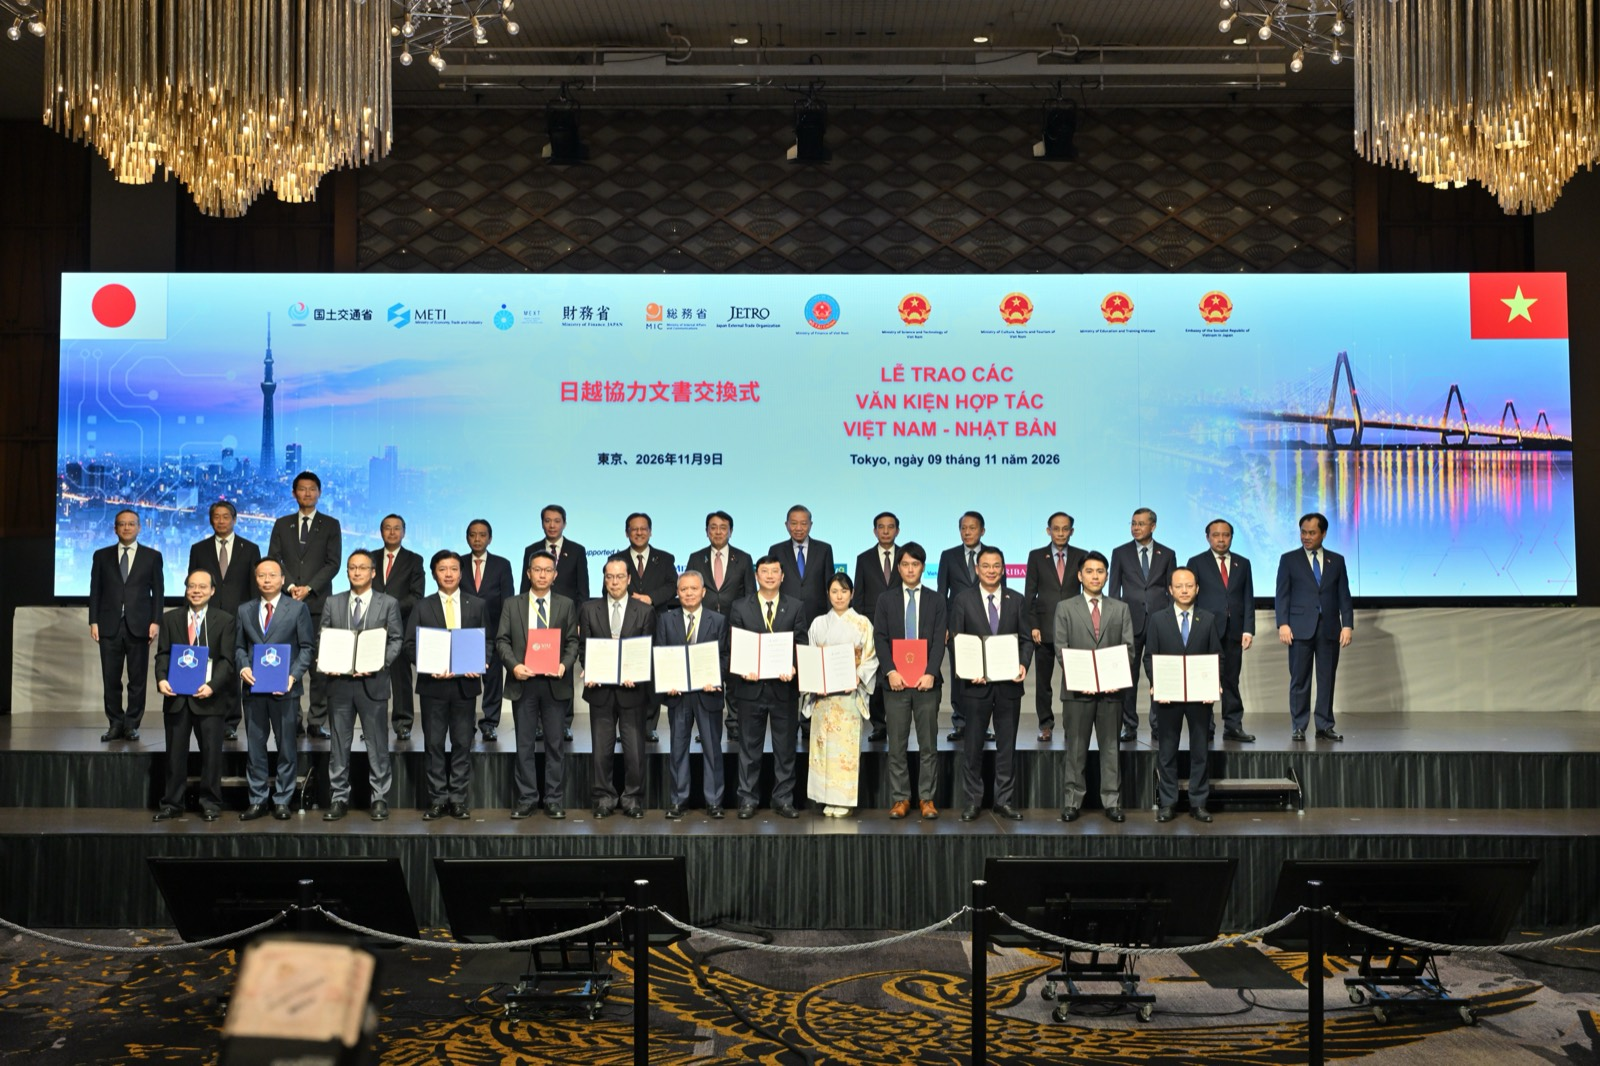
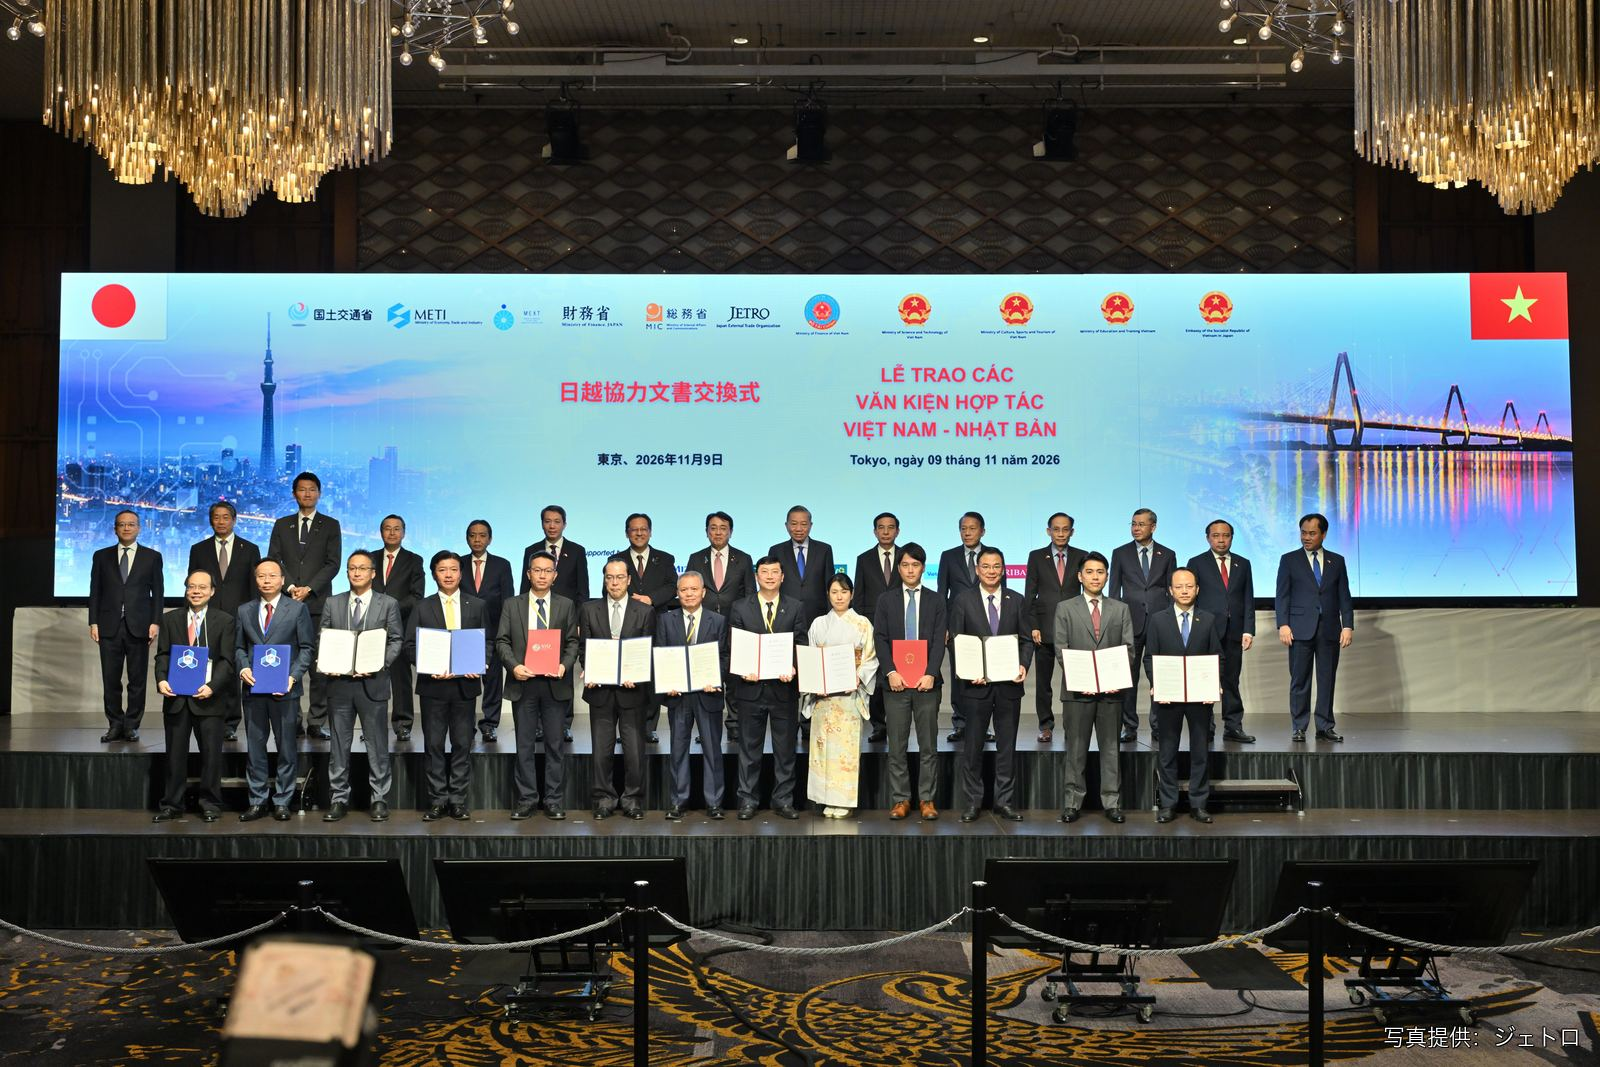
クレジットを画像に焼き込み（SNSでも同じ画像を使うため）
- vnu_mou.jpg の右下に「写真提供：ジェトロ」を描画
- HTML/CSS 側のクレジット表示は二重になるため削除
- 代替テキストにクレジットを含める
- CSS キャッシュバスターを v=122 に更新

Changed region(s): [[0.8438, 0.9597, 1.0, 0.9906]]

diff --git a/news/2026-11-vnu-mou/index.html b/news/2026-11-vnu-mou/index.html
@@ -14,7 +14,7 @@
   <link rel="preconnect" href="https://fonts.googleapis.com">
   <link rel="preconnect" href="https://fonts.gstatic.com" crossorigin>
   <link href="https://fonts.googleapis.com/css2?family=Inter:wght@400;500;600&family=Noto+Sans+JP:wght@400;500;700&display=swap" rel="stylesheet">
-  <link rel="stylesheet" href="../../css/style.css?v=121">
+  <link rel="stylesheet" href="../../css/style.css?v=122">
 </head>
 <body>
 
@@ -87,12 +87,10 @@
            data-jp="また、11月9日に開催された「日本・ベトナム 経済・科学技術官民連携フォーラム」の場において、本MOUの締結についてお披露目いたしました。"
            data-en="The signing was also announced at the Japan&ndash;Vietnam public-private forum on economic, science and technology cooperation, held on November 9.">また、11月9日に開催された「日本・ベトナム 経済・科学技術官民連携フォーラム」の場において、本MOUの締結についてお披露目いたしました。</p>
 
-        <figure class="news-detail__photo" data-reveal style="--i:5">
+        <div class="news-detail__photo" data-reveal style="--i:5">
           <img src="../../assets/images/vnu_mou.jpg"
-               alt="式典での集合写真">
-          <figcaption class="news-detail__credit"
-                      data-jp="写真提供：ジェトロ" data-en="Photo: JETRO">写真提供：ジェトロ</figcaption>
-        </figure>
+               alt="式典での集合写真（写真提供：ジェトロ）">
+        </div>
 
         <div class="news-detail__back-wrap">
           <a href="../../news.html" class="news-detail__back news-detail__back--bottom"

diff --git a/css/style.css b/css/style.css
@@ -2547,25 +2547,6 @@ a.news-card-full:hover {
   display: block;
 }
 
-/* 写真のクレジット（出典表示）— 写真の右下に重ねる */
-.news-detail__photo { position: relative; }
-
-.news-detail__credit {
-  position: absolute;
-  right: 10px;
-  bottom: 8px;
-  font-size: 11px;
-  line-height: 1.5;
-  letter-spacing: 0.02em;
-  color: rgba(255, 255, 255, 0.92);
-  text-shadow: 0 1px 3px rgba(0, 0, 0, 0.6);
-  pointer-events: none;
-}
-
-@media (max-width: 768px) {
-  .news-detail__credit { right: 8px; bottom: 6px; font-size: 10px; }
-}
-
 /* 外部リンクのhrefが空の場合は非表示 */
 .news-detail__link[href=""] {
   display: none;

diff --git a/team.html b/team.html
@@ -31,7 +31,7 @@
   <link rel="preconnect" href="https://fonts.googleapis.com">
   <link rel="preconnect" href="https://fonts.gstatic.com" crossorigin>
   <link href="https://fonts.googleapis.com/css2?family=Inter:wght@400;500;600&family=Noto+Sans+JP:wght@400;500;700&display=swap" rel="stylesheet">
-  <link rel="stylesheet" href="css/style.css?v=121">
+  <link rel="stylesheet" href="css/style.css?v=122">
   <style>
     .team-founders { display: grid; grid-template-columns: 1fr 1fr; gap: 48px; margin-top: 48px; }
     .founder-card { border: var(--border); border-radius: var(--radius-card); overflow: hidden; }

diff --git a/technology.html b/technology.html
@@ -32,7 +32,7 @@
   <link rel="preconnect" href="https://fonts.googleapis.com">
   <link rel="preconnect" href="https://fonts.gstatic.com" crossorigin>
   <link href="https://fonts.googleapis.com/css2?family=Inter:wght@400;500;600&family=Noto+Sans+JP:wght@400;500;700&display=swap" rel="stylesheet">
-  <link rel="stylesheet" href="css/style.css?v=121">
+  <link rel="stylesheet" href="css/style.css?v=122">
 
   <!-- 構造化データ: 技術解説（検索対策・画面非表示） -->
   <script type="application/ld+json">

diff --git a/index.html b/index.html
@@ -35,7 +35,7 @@
   <link rel="preconnect" href="https://fonts.googleapis.com">
   <link rel="preconnect" href="https://fonts.gstatic.com" crossorigin>
   <link href="https://fonts.googleapis.com/css2?family=Inter:wght@400;500;600&family=Noto+Sans+JP:wght@400;500;700&display=swap" rel="stylesheet">
-  <link rel="stylesheet" href="css/style.css?v=121">
+  <link rel="stylesheet" href="css/style.css?v=122">
 
   <!-- 構造化データ: Googleの検索結果リッチ表示用 -->
   <script type="application/ld+json">

diff --git a/cookie.html b/cookie.html
@@ -16,7 +16,7 @@
   <link rel="preconnect" href="https://fonts.googleapis.com">
   <link rel="preconnect" href="https://fonts.gstatic.com" crossorigin>
   <link href="https://fonts.googleapis.com/css2?family=Inter:wght@400;500;600&family=Noto+Sans+JP:wght@400;500;700&display=swap" rel="stylesheet">
-  <link rel="stylesheet" href="css/style.css?v=121">
+  <link rel="stylesheet" href="css/style.css?v=122">
   <style>
     .privacy-body {
       max-width: 760px;

diff --git a/privacy.html b/privacy.html
@@ -16,7 +16,7 @@
   <link rel="preconnect" href="https://fonts.googleapis.com">
   <link rel="preconnect" href="https://fonts.gstatic.com" crossorigin>
   <link href="https://fonts.googleapis.com/css2?family=Inter:wght@400;500;600&family=Noto+Sans+JP:wght@400;500;700&display=swap" rel="stylesheet">
-  <link rel="stylesheet" href="css/style.css?v=121">
+  <link rel="stylesheet" href="css/style.css?v=122">
   <style>
     .privacy-body {
       max-width: 760px;

diff --git a/news/2024-02-kaga-partnership/index.html b/news/2024-02-kaga-partnership/index.html
@@ -14,7 +14,7 @@
   <link rel="preconnect" href="https://fonts.googleapis.com">
   <link rel="preconnect" href="https://fonts.gstatic.com" crossorigin>
   <link href="https://fonts.googleapis.com/css2?family=Inter:wght@400;500;600&family=Noto+Sans+JP:wght@400;500;700&display=swap" rel="stylesheet">
-  <link rel="stylesheet" href="../../css/style.css?v=121">
+  <link rel="stylesheet" href="../../css/style.css?v=122">
 </head>
 <body>
 

diff --git a/news/2024-05-nedo/index.html b/news/2024-05-nedo/index.html
@@ -14,7 +14,7 @@
   <link rel="preconnect" href="https://fonts.googleapis.com">
   <link rel="preconnect" href="https://fonts.gstatic.com" crossorigin>
   <link href="https://fonts.googleapis.com/css2?family=Inter:wght@400;500;600&family=Noto+Sans+JP:wght@400;500;700&display=swap" rel="stylesheet">
-  <link rel="stylesheet" href="../../css/style.css?v=121">
+  <link rel="stylesheet" href="../../css/style.css?v=122">
 </head>
 <body>
 

diff --git a/news/2024-10-jaxa-startup/index.html b/news/2024-10-jaxa-startup/index.html
@@ -14,7 +14,7 @@
   <link rel="preconnect" href="https://fonts.googleapis.com">
   <link rel="preconnect" href="https://fonts.gstatic.com" crossorigin>
   <link href="https://fonts.googleapis.com/css2?family=Inter:wght@400;500;600&family=Noto+Sans+JP:wght@400;500;700&display=swap" rel="stylesheet">
-  <link rel="stylesheet" href="../../css/style.css?v=121">
+  <link rel="stylesheet" href="../../css/style.css?v=122">
 </head>
 <body>
 

diff --git a/news/2024-12-kaga-report/index.html b/news/2024-12-kaga-report/index.html
@@ -14,7 +14,7 @@
   <link rel="preconnect" href="https://fonts.googleapis.com">
   <link rel="preconnect" href="https://fonts.gstatic.com" crossorigin>
   <link href="https://fonts.googleapis.com/css2?family=Inter:wght@400;500;600&family=Noto+Sans+JP:wght@400;500;700&display=swap" rel="stylesheet">
-  <link rel="stylesheet" href="../../css/style.css?v=121">
+  <link rel="stylesheet" href="../../css/style.css?v=122">
 </head>
 <body>
 

diff --git a/news/2025-05-mozambique-loi/index.html b/news/2025-05-mozambique-loi/index.html
@@ -14,7 +14,7 @@
   <link rel="preconnect" href="https://fonts.googleapis.com">
   <link rel="preconnect" href="https://fonts.gstatic.com" crossorigin>
   <link href="https://fonts.googleapis.com/css2?family=Inter:wght@400;500;600&family=Noto+Sans+JP:wght@400;500;700&display=swap" rel="stylesheet">
-  <link rel="stylesheet" href="../../css/style.css?v=121">
+  <link rel="stylesheet" href="../../css/style.css?v=122">
 </head>
 <body>
 
